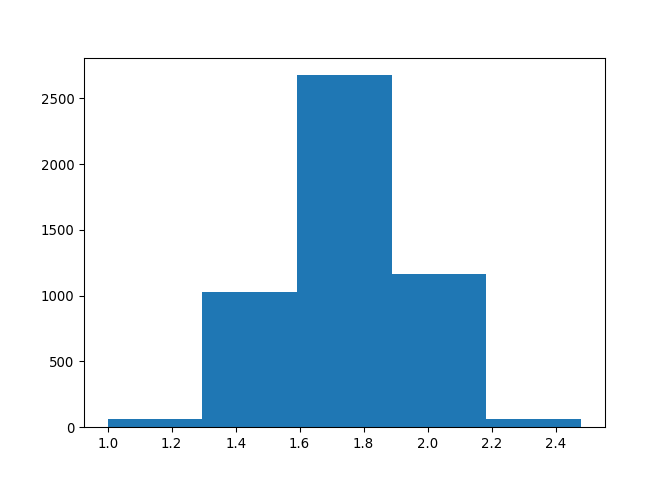
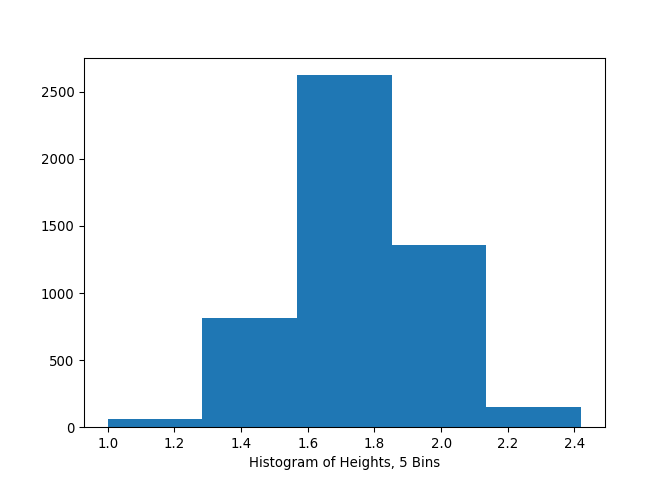
Add histogram

diff --git a/datacamp_intermediate_python.md b/datacamp_intermediate_python.md
@@ -13,6 +13,8 @@ year = [1950, 1970, 1990, 2010]
 pop = [2.519, 3.692, 5.263, 6.972]
 # Line plot
 plt.plot(year, pop)
+plt.xlabel('Year')
+plt.ylabel('Population')
 plt.show()
 ```
 
@@ -22,6 +24,8 @@ plt.show()
 plt.clf()
 #Scatter plot
 plt.scatter(year, pop)
+plt.xlabel('Year')
+plt.ylabel('Population')
 plt.show()
 ```
 
@@ -35,19 +39,12 @@ import numpy as np
 height = np.round(np.random.normal(1.75, 0.20, 5000),2)
 weight = np.round(np.random.normal(60.32, 15, 5000),2)
 # Histogram
-plt.hist(height, bins = 10)
+plt.hist(height, bins = 5)
+plt.xlabel('Histogram of Heights, 5 Bins')
 plt.show()
 ```
 
 ![](datacamp_intermediate_python_files/figure-markdown_github-ascii_identifiers/unnamed-chunk-1-3.png)
-
-``` python
-plt.clf()
-plt.hist(height, bins = 5)
-plt.show()
-```
-
-![](datacamp_intermediate_python_files/figure-markdown_github-ascii_identifiers/unnamed-chunk-1-4.png)
 
 ``` python
 plt.clf()
